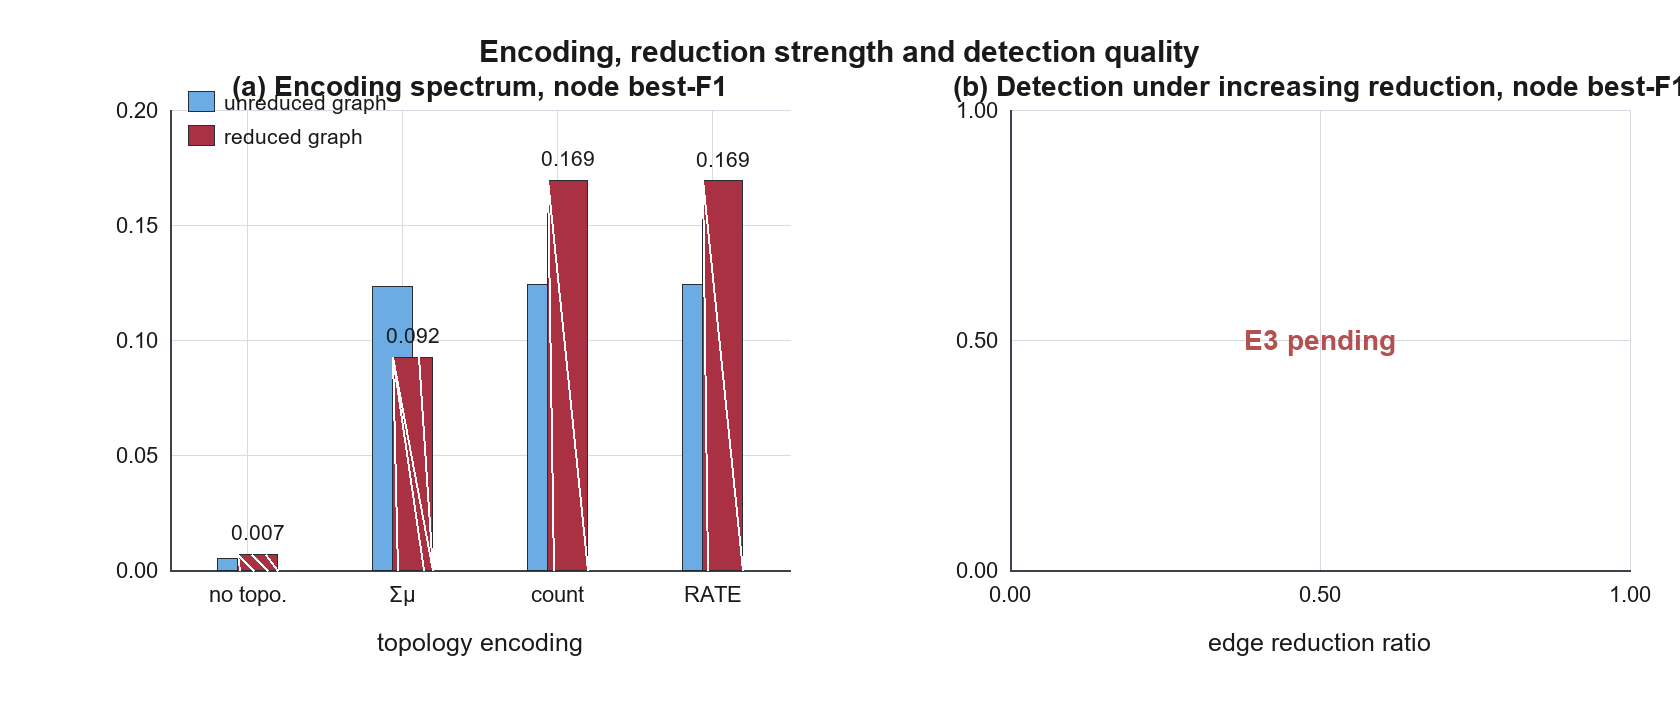
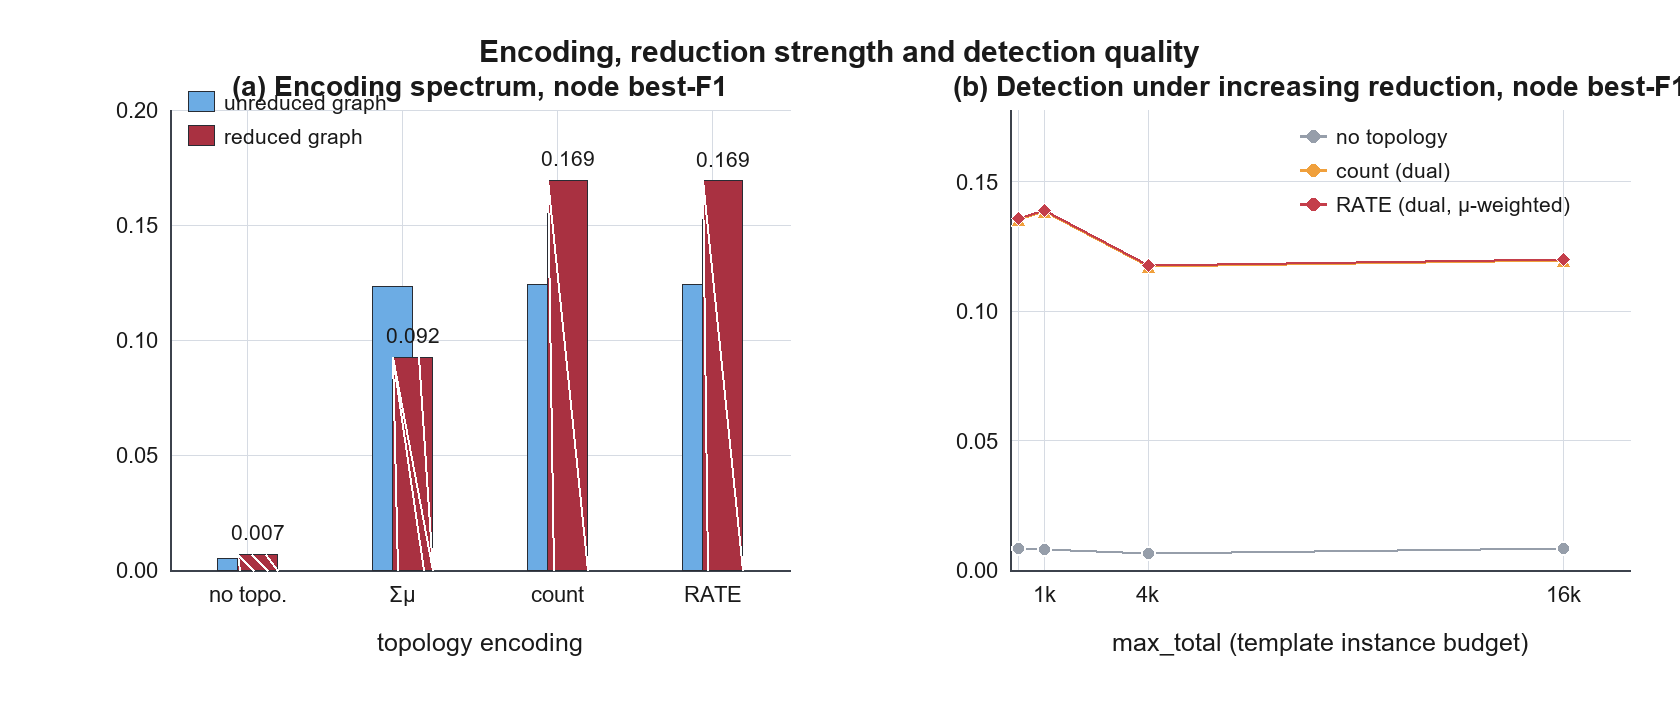
Fix reduction determinism (sorted cand + PYTHONHASHSEED=0), switch E3 figure x-axis to max_total, relaunch E3 sweep

diff --git a/figures/make_fig_png.py b/figures/make_fig_png.py
@@ -19,6 +19,7 @@ import argparse
 import csv
 import glob
 import os
+import re
 from collections import defaultdict
 
 from PIL import Image, ImageDraw, ImageFont
@@ -76,6 +77,7 @@ def read_csvs(pattern):
     for p in sorted(glob.glob(pattern)):
         with open(p, encoding="utf-8", newline="") as fh:
             for r in csv.DictReader(fh):
+                r["_src"] = os.path.basename(p)
                 rows.append(r)
     return rows
 
@@ -258,47 +260,52 @@ def panel_a(d, box, e1):
            box[0] + 18, box[1] - 8)
 
 
+def _max_total(r):
+    """实验强度（预算）。优先用 max_total 列，否则从文件名 mt<N> 解析。"""
+    v = fnum(r, "max_total")
+    if v is not None:
+        return int(round(v))
+    m = re.search(r'mt(\d+)', r.get("_src", ""))
+    return int(m.group(1)) if m else None
+
+
 def panel_b(d, box, e3):
-    """归约强度扫描：边归约率 → 节点级 best-F1。"""
+    """归约强度扫描：max_total 预算 → 节点级 best-F1。"""
     p = Panel(d, box, "(b) Detection under increasing reduction, node best-F1",
-              "edge reduction ratio", "")
+              "max_total (template instance budget)", "")
     if not e3:
-        p.set_x(0, 1, [0, 0.5, 1.0])
+        p.set_x(0, 17000, [0, 4000, 8000, 12000, 16000])
         p.set_y(0, 1, [0, 0.5, 1.0])
         p.draw_frame()
         d.text(((box[0] + box[2]) / 2, (box[1] + box[3]) / 2),
                "E3 pending", font=F_TITLE, fill=(180, 80, 80), anchor="mm")
         return
-    # 每个 (strength, encoding) → edge_cut / node_best_f1
     per = defaultdict(list)
     for r in e3:
-        gp, og = fnum(r, "n_edges_Gp"), fnum(r, "n_edges_orig")
-        cut = fnum(r, "edge_cut")
-        if cut is None and gp is not None and og:
-            cut = 1.0 - gp / og
-        if cut is None:
+        st = _max_total(r)
+        if st is None:
             continue
-        per[(round(cut, 4), r.get("encoding"))].append(fnum(r, "node_best_f1"))
+        per[(st, r.get("encoding"))].append(fnum(r, "node_best_f1"))
 
     series = {}
     for enc in ENC_ORDER:
-        pts = sorted((c, mean(v)) for (c, e), v in per.items() if e == enc)
-        pts = [(c, v) for c, v in pts if v is not None]
+        pts = sorted((st, mean(v)) for (st, e), v in per.items() if e == enc)
+        pts = [(st, v) for st, v in pts if v is not None]
         if pts:
             series[enc] = pts
 
     allv = [v for pts in series.values() for _, v in pts]
     ymax = max(allv + [0.01]) * 1.28
-    allx = [c for pts in series.values() for c, _ in pts]
-    xmax = max(allx) if allx else 1.0
-    p.set_x(-0.02, max(xmax * 1.12, 0.05),
-            [0.0, 0.1, 0.2, 0.3, 0.4, 0.5])
+    allx = [st for pts in series.values() for st, _ in pts]
+    xmax = max(allx) if allx else 1
+    p.set_x(0, max(xmax * 1.12, 100),
+            [250, 1000, 4000, 16000])
     p.set_y(0.0, ymax, [0.0, 0.05, 0.10, 0.15, 0.20, 0.25, 0.30][
         : max(2, int(ymax / 0.05) + 1)])
-    p.draw_frame()
+    p.draw_frame(xticklabels=["", "1k", "4k", "16k"])
 
     for enc, pts in series.items():
-        pix = [(p.px(c), p.py(v)) for c, v in pts]
+        pix = [(p.px(st), p.py(v)) for st, v in pts]
         p.line(pix, ENC_COLOR[enc], MARKER[enc])
     legend(d, [(ENC_LABEL[e], ENC_COLOR[e], "line")
                for e in ENC_ORDER if e in series],

diff --git a/scripts_ablation/e3_probe_det.py b/scripts_ablation/e3_probe_det.py
@@ -1,0 +1,68 @@
+# -*- coding: utf-8 -*-
+"""e3_probe_det.py — 验证 TeRedOperator 的实例匹配是否跨进程可复现。
+
+背景：E3 强度扫描里归约量对 max_total 非单调（节点删除量与边删除量都不单调），
+与 "budget 越大匹配实例越多" 的直觉矛盾。怀疑 _seeded_match 的候选集是 set，
+迭代顺序随 PYTHONHASHSEED 变化，同一输入在不同进程得到不同贪婪轨迹。
+
+本脚本只做一次测试图的 find_instances（跳过 5 个训练图、跳过打分），
+打印区域数、被吸收节点数与区域集合摘要，便于跨进程比对。
+
+用法:
+  PYTHONHASHSEED=0     python scripts_ablation/e3_probe_det.py ...
+  PYTHONHASHSEED=12345 python scripts_ablation/e3_probe_det.py ...
+"""
+from __future__ import annotations
+import os, sys, time, argparse, hashlib
+
+HERE = os.path.dirname(os.path.abspath(__file__))
+ROOT = os.path.dirname(HERE)
+sys.path.insert(0, ROOT)
+
+from rate_core import load_graphs
+from reduction.tered import find_instances
+from scripts.e6_alert_eval import parse_spec
+from scripts_ablation.graphcache import parse_cached
+
+
+def main():
+    ap = argparse.ArgumentParser()
+    ap.add_argument("--data-dir", default="/TeRed+RATE/dataset/darpae5/cadets")
+    ap.add_argument("--templates", required=True)
+    ap.add_argument("--graph-cache", required=True)
+    ap.add_argument("--spec", default="bin.7@400000")
+    ap.add_argument("--max-total", type=int, default=4000)
+    ap.add_argument("--max-instances", type=int, default=300)
+    ap.add_argument("--share-k", type=int, default=-1)
+    a = ap.parse_args()
+
+    print("PYTHONHASHSEED=%r  max_total=%d" % (os.environ.get("PYTHONHASHSEED"),
+                                               a.max_total), flush=True)
+    tpls = load_graphs(a.templates)
+    print("templates: %d" % len(tpls), flush=True)
+
+    nm, mr = parse_spec(a.data_dir, a.spec)
+    g, _meta = parse_cached(a.data_dir, nm, mr or None, a.graph_cache)
+    print("graph %s: %d nodes, %d edges" % (a.spec, g.n_nodes(), g.n_edges()),
+          flush=True)
+
+    t = time.time()
+    regions = find_instances(g, tpls, max_instances=a.max_instances,
+                             max_total=a.max_total, share_k=a.share_k)
+    absorbed = set()
+    for r in regions:
+        absorbed |= r["absorb"]
+    region_ids = sorted(tuple(sorted(r["absorb"])) for r in regions)
+    digest = hashlib.md5(repr(region_ids).encode()).hexdigest()
+
+    print("n_regions=%d  absorbed=%d  digest=%s  (%.0fs)"
+          % (len(regions), len(absorbed), digest, time.time() - t), flush=True)
+
+    # 前 5 个区域的吸收集，便于肉眼比对
+    for i, r in enumerate(regions[:5]):
+        print("  region[%d] tpl=%s absorb=%d" % (i, r["tpl_id"], len(r["absorb"])),
+              flush=True)
+
+
+if __name__ == "__main__":
+    main()

diff --git a/figures/make_excel.py b/figures/make_excel.py
@@ -13,7 +13,7 @@
 每个 sheet 先落原始聚合表，再放原生图表对象。
 """
 from __future__ import annotations
-import os, sys, csv, glob, argparse
+import os, sys, re, csv, glob, argparse
 from collections import defaultdict
 
 try:
@@ -121,28 +121,38 @@ def _edge_cut(r):
     return 1.0 - gp / orig
 
 
+def _max_total(r):
+    """实验强度（预算）。优先用 max_total 列，否则从文件名 mt<N> 解析。"""
+    v = fnum(r, "max_total")
+    if v is not None:
+        return int(round(v))
+    m = re.search(r'mt(\d+)', r.get("_src", ""))
+    return int(m.group(1)) if m else None
+
+
 def sheet_e3(wb, rows):
-    """主图：横轴边归约率（归约强度），纵轴节点级检测质量。"""
+    """主图：横轴为 max_total 归约预算，纵轴节点级检测质量。"""
     if not rows:
         return
     encs = sorted({r.get("encoding", "?") for r in rows})
-    cuts = sorted({_edge_cut(r) for r in rows if _edge_cut(r) is not None})
+    strengths = sorted({st for st in (_max_total(r) for r in rows) if st is not None})
     ws = wb.create_sheet("E3_strength_sweep")
-    header = ["edge_cut (mean)"] + encs + ["nodes_kept (mean)"]
+    header = ["max_total"] + encs + ["nodes_kept"] + ["edge_cut"]
     table = []
-    for cut in cuts:
-        band = [r for r in rows if _edge_cut(r) is not None
-                and abs(_edge_cut(r) - cut) < 1e-4]
-        nk = mean([(fnum(r, "n_nodes_Gp") / fnum(r, "n_nodes_orig"))
+    for st in strengths:
+        band = [r for r in rows if _max_total(r) == st]
+        nk = mean([fnum(r, "n_nodes_Gp") / fnum(r, "n_nodes_orig")
                    if fnum(r, "n_nodes_orig") else None for r in band])
-        line = [cut] + [mean([fnum(r, "node_best_f1") for r in band
+        ec = mean([_edge_cut(r) for r in band])
+        line = [st] + [mean([fnum(r, "node_best_f1") for r in band
                               if r.get("encoding") == en]) for en in encs]
         line.append(nk)
+        line.append(ec)
         table.append([v if v is not None else "" for v in line])
     write_table(ws, header, table)
     ch = LineChart()
-    ch.title = "Detection quality vs reduction strength"
-    ch.x_axis.title = "edge reduction ratio"
+    ch.title = "Detection quality vs reduction budget"
+    ch.x_axis.title = "max_total (template instance budget)"
     ch.y_axis.title = "node best-F1"
     data = Reference(ws, min_col=2, max_col=1 + len(encs), min_row=1,
                      max_row=1 + len(table))

diff --git a/reduction/tered.py b/reduction/tered.py
@@ -112,7 +112,9 @@ def _seeded_match(idx: _MatchIndex, Tnx, root_t, seed_g, max_backtracks=4000):
         if cand is None:
             return False
         typ = Tnx.nodes[t].get("type", "unknown")
-        for g in cand:
+        # 必须 sorted：cand 是 set，字符串哈希随机化后迭代顺序随进程变化，
+        # DFS 会返回不同的合法嵌入 -> 归约结果不可复现（E3 扫描非单调的根因）。
+        for g in sorted(cand):
             if g in used:
                 continue
             if Gnx.nodes[g].get("type", "unknown") != typ:

diff --git a/scripts_ablation/e1_enc_matrix.py b/scripts_ablation/e1_enc_matrix.py
@@ -314,6 +314,7 @@ def main():
                            n_edges_orig=g.n_edges(),
                            n_nodes_Gp=Gp_test.n_nodes(), n_edges_Gp=len(edges),
                            n_dim=X.shape[1], top_k=a.top_k,
+                           max_total=a.max_total,
                            max_alerts=a.max_alerts, v4_scale=a.v4_scale,
                            runtime_s=round(time.time() - tc, 1))
                 row.update(m)
